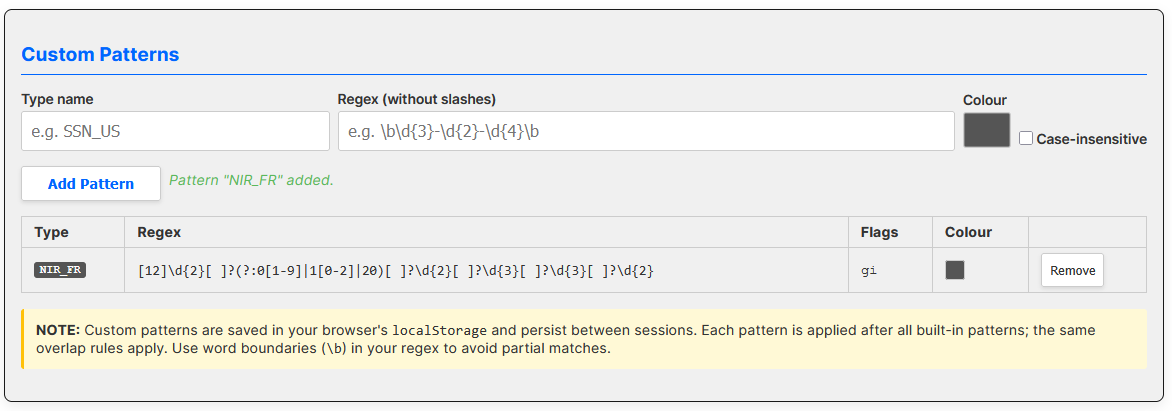
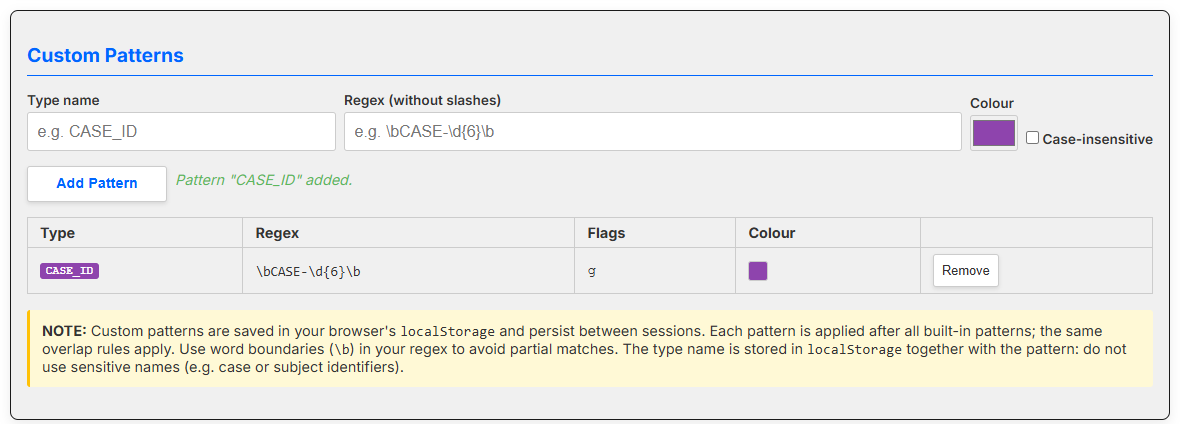
docs: Redactor help screenshots retaken, FAQ and help aligned with 3.14.0
All 17 screenshots of the Redactor help retaken on the current
interface with fictitious data. The custom-pattern example is now a
case number (CASE_ID), since France NIR is a built-in pattern. The FAQ
workflow describes Copy CSV, Export CSV and Copy values.

diff --git a/pages/help-redactor.html b/pages/help-redactor.html
@@ -90,7 +90,7 @@
             <li>Click the <strong>CSV</strong> button at the top of the Redactor section.
                 <img src="../assets/images/screenshots/Screenshot 61.png" alt="CSV mode button" class="screenshot">
             </li>
-            <li>Click <strong>Browse...</strong> and select your CSV file.
+            <li>Click <strong>Choose File</strong> (<strong>Browse...</strong> in some browsers) and select your CSV file.
                 <img src="../assets/images/screenshots/Screenshot 6.png" alt="File browser for CSV upload" class="screenshot">
             </li>
             <li>Click <strong>Redact CSV</strong>. A summary shows how many rows were processed and how many cells were redacted.
@@ -109,7 +109,7 @@
             <li>Click the <strong>CSV</strong> button at the top of the Restore section.
                 <img src="../assets/images/screenshots/Screenshot 81.png" alt="CSV mode selected in Restore section" class="screenshot">
             </li>
-            <li>Click <strong>Browse...</strong> and select the redacted CSV file (the one downloaded after using Redact CSV).</li>
+            <li>Click <strong>Choose File</strong> (<strong>Browse...</strong> in some browsers) and select the redacted CSV file (the one downloaded after using Redact CSV).</li>
             <li>Click <strong>Restore CSV</strong>. The tool applies the session map to every cell in the file. A summary shows how many rows were processed and how many cells were restored.
                 <img src="../assets/images/screenshots/Screenshot 8.png" alt="CSV restore summary" class="screenshot">
             </li>
@@ -125,14 +125,14 @@
 
         <img src="../assets/images/screenshots/Screenshot 9.png" alt="Custom patterns section" class="screenshot">
 
-        <p>In the following example the analyst added the regular expression to detect the NIR (Numéro d'Inscription au Répertoire).</p>
+        <p>In the following example the analyst added a regular expression to detect internal case numbers such as <code>CASE-123456</code>.</p>
 
-        <img src="../assets/images/screenshots/Screenshot 10.png" alt="Custom pattern for NIR entered" class="screenshot">
+        <img src="../assets/images/screenshots/Screenshot 10.png" alt="Custom pattern for case numbers entered" class="screenshot">
 
         <p>To do that, the analyst followed this procedure:</p>
         <ol>
-            <li><strong>Type name:</strong> enter a short label for your pattern, for example <code>NIR_FR</code>. Use only letters, digits, and underscores.</li>
-            <li><strong>Regex:</strong> enter your regular expression without surrounding slashes. Example: <code>[12]\d{2}[ ]?(?:0[1-9]|1[0-2]|20)[ ]?\d{2}[ ]?\d{3}[ ]?\d{3}[ ]?\d{2}</code> matches NIR (Numéro d'Inscription au Répertoire).</li>
+            <li><strong>Type name:</strong> enter a short label for your pattern, for example <code>CASE_ID</code>. Use only letters, digits, and underscores.</li>
+            <li><strong>Regex:</strong> enter your regular expression without surrounding slashes. Example: <code>\bCASE-\d{6}\b</code> matches <code>CASE-</code> followed by six digits.</li>
             <li><strong>Colour:</strong> choose a colour for the badge shown in the Redaction Map.</li>
             <li><strong>Case-insensitive:</strong> tick this box if the pattern should match regardless of capitalisation.</li>
             <li>Click <strong>Add Pattern</strong>. The pattern is saved in your browser's local storage and will be available the next time you open the page.
@@ -147,7 +147,7 @@
 
         <p>The Redaction Map shows every placeholder created in the current session, its data type, and the original value it replaced.</p>
 
-        <img src="../assets/images/screenshots/Screenshot 301.png" alt="Redaction Map showing session placeholders" class="screenshot">
+        <img src="../assets/images/screenshots/Screenshot 301.png" alt="Redaction Map grouped by type, with the Copy CSV, Export CSV and Copy values buttons" class="screenshot">
 
         <ul>
             <li><strong>Copy Map (JSON):</strong> copies the full map as a JSON object. Paste this somewhere safe if you want to restore data in a future session.</li>

diff --git a/pages/faq.html b/pages/faq.html
@@ -381,6 +381,7 @@
         <li>Copy the redacted output and submit it to your AI model.</li>
         <li>Once the AI returns its report (which will contain the placeholders), paste it into the <strong>Restore</strong> section and click <strong>Restore</strong>. All original values are reinserted automatically, also where the AI rewrote a placeholder without brackets (<code>CF_1</code>), with spaces inside them (<code>[ CF_1 ]</code>) or in bold (the bold is kept). A placeholder number that is not in the map, such as <code>[CF_12]</code>, is left as it is.</li>
         <li>If you need to continue a session later (e.g., the report arrives the next day), click <strong>Copy Map (JSON)</strong> to export the redaction map, save it externally, then re-import it via the <strong>Import Map</strong> panel before using Restore.</li>
+        <li>To work on the extracted data in a spreadsheet or another tool, use <strong>Copy CSV</strong> or <strong>Export CSV</strong> in the Redaction Map (columns Placeholder, Type, Original Value; <strong>Export CSV</strong> downloads <code>redaction-map.csv</code>). <strong>Copy values</strong>, on the right of each type group, copies all the original values of that type, one per line. The CSV cannot be re-imported: <strong>Import Map</strong> takes the JSON only.</li>
       </ol>
       <p>The session state is held only in memory. It is cleared when you close or refresh the tab, or when you click <strong>Clear Redaction Map</strong>.</p>
     </div>

diff --git a/pages/versionhistory.html b/pages/versionhistory.html
@@ -23,6 +23,7 @@
       <ul>
         <li><strong>New:</strong> Redactor: the Redaction Map can be exported as CSV. <em>Copy CSV</em> copies it to the clipboard and <em>Export CSV</em> downloads <code>redaction-map.csv</code>; both use the columns Placeholder, Type and Original Value, a comma separator and the same order as the table. The CSV is for use in other tools: <em>Import Map</em> still takes the JSON only.</li>
         <li><strong>New:</strong> Redactor: each type group of the Redaction Map has a <em>Copy values</em> button that copies all the original values of that type, one per line, ready to paste into a column (for example every SE10 or every VISA card found in the session).</li>
+        <li><strong>Docs:</strong> Redactor help: all screenshots retaken on the current interface with fictitious data; the custom-pattern example is now a case number (<code>CASE_ID</code>), because France NIR is now a built-in pattern. FAQ: the Redact → LLM → Restore workflow describes <em>Copy CSV</em>, <em>Export CSV</em> and <em>Copy values</em>.</li>
       </ul>
     </div>
 

diff --git a/docs/faq.md b/docs/faq.md
@@ -338,6 +338,7 @@ Dates are not redacted. When two patterns overlap, the leftmost match wins, then
 2.  Copy the redacted output and submit it to your AI model.
 3.  Once the AI returns its report (which will contain the placeholders), paste it into the **Restore** section and click **Restore**. All original values are reinserted automatically, also where the AI rewrote a placeholder without brackets (`CF_1`), with spaces inside them (`[ CF_1 ]`) or in bold (the bold is kept). A placeholder number that is not in the map, such as `[CF_12]`, is left as it is.
 4.  If you need to continue a session later (e.g., the report arrives the next day), click **Copy Map (JSON)** to export the redaction map, save it externally, then re-import it via the **Import Map** panel before using Restore.
+5.  To work on the extracted data in a spreadsheet or another tool, use **Copy CSV** or **Export CSV** in the Redaction Map (columns Placeholder, Type, Original Value; **Export CSV** downloads `redaction-map.csv`). **Copy values**, on the right of each type group, copies all the original values of that type, one per line. The CSV cannot be re-imported: **Import Map** takes the JSON only.
 
 The session state is held only in memory. It is cleared when you close or refresh the tab, or when you click **Clear Redaction Map**.
 

diff --git a/docs/versionhistory.md b/docs/versionhistory.md
@@ -8,6 +8,7 @@ Changelog of all releases and improvements to the Exploratores OSINT Toolkit.
 
 - **New:** Redactor: the Redaction Map can be exported as CSV. *Copy CSV* copies it to the clipboard and *Export CSV* downloads `redaction-map.csv`; both use the columns Placeholder, Type and Original Value, a comma separator and the same order as the table. The CSV is for use in other tools: *Import Map* still takes the JSON only.
 - **New:** Redactor: each type group of the Redaction Map has a *Copy values* button that copies all the original values of that type, one per line, ready to paste into a column (for example every SE10 or every VISA card found in the session).
+- **Docs:** Redactor help: all screenshots retaken on the current interface with fictitious data; the custom-pattern example is now a case number (`CASE_ID`), because France NIR is now a built-in pattern. FAQ: the Redact → LLM → Restore workflow describes *Copy CSV*, *Export CSV* and *Copy values*.
 
 ---
 
